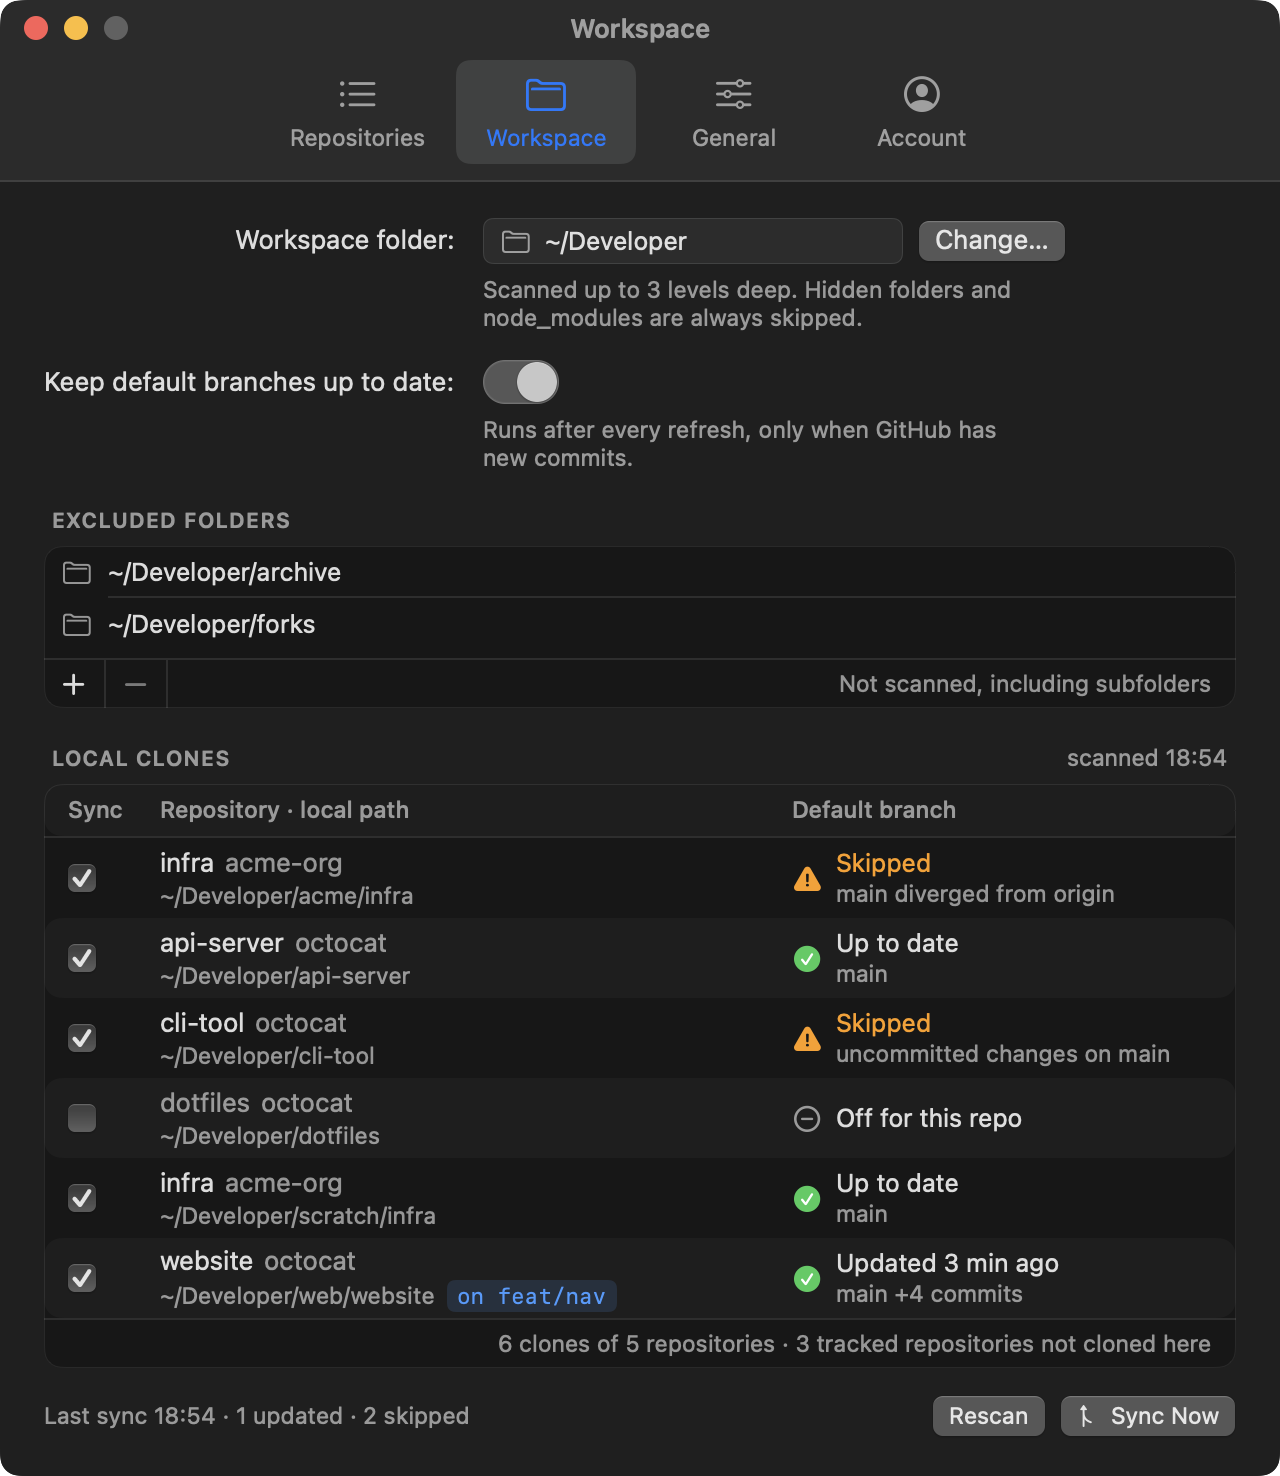
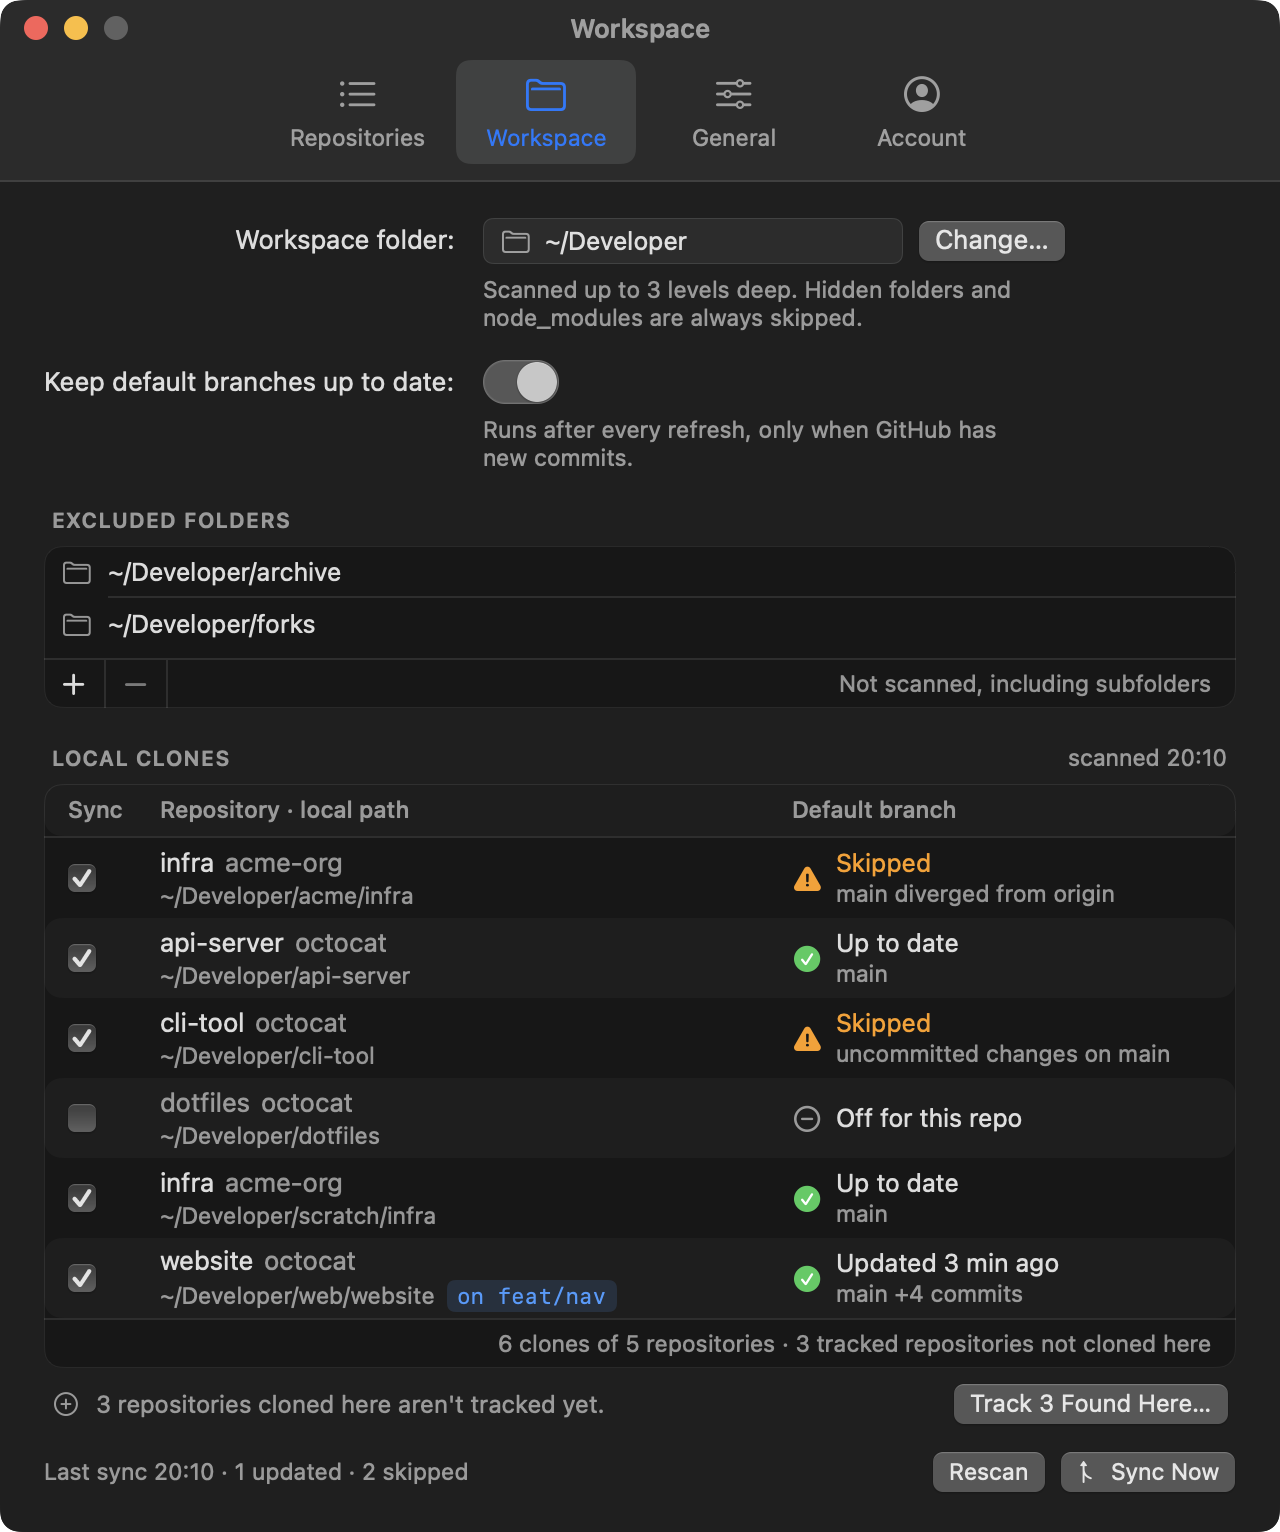
Offer to track repositories cloned in the workspace
The scan only listed clones of tracked repositories, so a workspace full of
clones showed 'No clones found'. The scanner now also returns untracked
github.com clones and Settings > Workspace offers to track them.

diff --git a/Sources/ShipwatchUI/WorkspaceSettingsView.swift b/Sources/ShipwatchUI/WorkspaceSettingsView.swift
@@ -5,6 +5,7 @@ import SwiftUI
 struct WorkspaceSettingsView: View {
     let model: AppModel
     @State private var excludedSelection = Set<String>()
+    @State private var isTrackingFound = false
 
     private var workspace: WorkspaceModel { model.workspace }
     private var prefs: Preferences { model.prefs }
@@ -37,8 +38,14 @@ struct WorkspaceSettingsView: View {
                 .padding(.top, 18)
                 .padding(.bottom, 6)
                 clonesTable
+                if !workspace.untracked.isEmpty {
+                    untrackedRow.padding(.top, 8)
+                }
                 actions.padding(.top, 14)
             }
+        }
+        .sheet(isPresented: $isTrackingFound) {
+            TrackFoundRepositoriesSheet(model: model, clones: workspace.untracked) { isTrackingFound = false }
         }
     }
 
@@ -209,9 +216,13 @@ struct WorkspaceSettingsView: View {
                 VStack(spacing: 4) {
                     Text("No clones found")
                         .font(.system(size: 13, weight: .medium))
-                    Text("No folder here has a git remote pointing at a repository you track.")
-                        .font(.system(size: 12))
-                        .foregroundStyle(.secondary)
+                    Text(
+                        workspace.untracked.isEmpty
+                            ? "No folder here has a git remote pointing at a repository you track."
+                            : "None of the GitHub clones here belong to a repository you track yet."
+                    )
+                    .font(.system(size: 12))
+                    .foregroundStyle(.secondary)
                 }
                 .frame(maxWidth: .infinity, minHeight: 80)
             } else {
@@ -246,6 +257,22 @@ struct WorkspaceSettingsView: View {
             parts.append("\(uncloned.counted("tracked repository", "tracked repositories")) not cloned here")
         }
         return parts.joined(separator: " · ")
+    }
+
+    private var untrackedRow: some View {
+        let count = workspace.untracked.count
+        return HStack(spacing: 8) {
+            Image(systemName: "plus.circle")
+                .foregroundStyle(.secondary)
+                .accessibilityHidden(true)
+            Text("\(count.counted("repository", "repositories")) cloned here \(count == 1 ? "isn't" : "aren't") tracked yet.")
+                .foregroundStyle(.secondary)
+            Spacer()
+            Button("Track \(count) Found Here…") { isTrackingFound = true }
+                .help("Choose which of these repositories Shipwatch shows and keeps up to date")
+        }
+        .font(.system(size: 12))
+        .padding(.horizontal, 4)
     }
 
     private var actions: some View {
@@ -314,6 +341,85 @@ struct WorkspaceSettingsView: View {
         panel.message = message
         panel.prompt = prompt
         return panel.runModal() == .OK ? panel.urls : []
+    }
+}
+
+/// Picks which untracked github.com repositories found in the workspace to track. All are selected at first.
+package struct TrackFoundRepositoriesSheet: View {
+    let model: AppModel
+    let clones: [LocalClone]
+    let dismiss: () -> Void
+    @State private var selected: Set<String>
+
+    package init(model: AppModel, clones: [LocalClone], dismiss: @escaping () -> Void) {
+        self.model = model
+        self.clones = clones
+        self.dismiss = dismiss
+        _selected = State(initialValue: Set(clones.map(\.ref.key)))
+    }
+
+    private var selectedRefs: [RepoRef] {
+        clones.map(\.ref).filter { selected.contains($0.key) }
+    }
+
+    package var body: some View {
+        let count = selectedRefs.count
+        VStack(alignment: .leading, spacing: 12) {
+            VStack(alignment: .leading, spacing: 4) {
+                Text("Track Repositories Found Here")
+                    .font(.system(size: 15, weight: .semibold))
+                Text("GitHub repositories cloned in your workspace that Shipwatch doesn't track yet.")
+                    .font(.system(size: 12.5))
+                    .foregroundStyle(.secondary)
+            }
+
+            ScrollView {
+                LazyVStack(alignment: .leading, spacing: 0) {
+                    ForEach(clones) { clone in
+                        let key = clone.ref.key
+                        PickerRow(
+                            name: AttributedString(clone.ref.fullName),
+                            detail: Text(WorkspaceSettingsView.abbreviated(clone.path.path)),
+                            isAdded: false,
+                            isSelected: selected.contains(key)
+                        ) { toggle(key) }
+                    }
+                }
+            }
+            .frame(height: 290)
+            .settingsTable()
+
+            HStack {
+                Button(count == clones.count ? "Select None" : "Select All") {
+                    selected = count == clones.count ? [] : Set(clones.map(\.ref.key))
+                }
+                Spacer()
+                Button("Cancel", action: dismiss)
+                    .keyboardShortcut(.cancelAction)
+                Button(count == 0 ? "Track Repositories" : "Track \(count.counted("Repository", "Repositories"))") {
+                    model.addRepositories(selectedRefs)
+                    dismiss()
+                }
+                .keyboardShortcut(.defaultAction)
+                .buttonStyle(.borderedProminent)
+                .disabled(count == 0)
+            }
+            .controlSize(.large)
+            .font(.system(size: 13))
+        }
+        .padding(20)
+        .frame(width: 520)
+        .background(Theme.settingsContent)
+        .environment(\.colorScheme, .dark)
+        .preferredColorScheme(.dark)
+    }
+
+    private func toggle(_ key: String) {
+        if selected.contains(key) {
+            selected.remove(key)
+        } else {
+            selected.insert(key)
+        }
     }
 }
 

diff --git a/Sources/ShipwatchCore/Workspace.swift b/Sources/ShipwatchCore/Workspace.swift
@@ -21,16 +21,19 @@ public struct LocalClone: Hashable, Sendable, Identifiable {
 
 public struct WorkspaceScan: Equatable, Sendable {
     public var clones: [LocalClone]
+    /// Clones of github.com repositories that aren't tracked, so they can be offered for tracking.
+    public var untracked: [LocalClone]
     /// Folders that could not be listed, usually because macOS privacy settings block them.
     public var unreadable: [URL]
 
-    public init(clones: [LocalClone] = [], unreadable: [URL] = []) {
+    public init(clones: [LocalClone] = [], untracked: [LocalClone] = [], unreadable: [URL] = []) {
         self.clones = clones
+        self.untracked = untracked
         self.unreadable = unreadable
     }
 }
 
-/// Finds clones of tracked repositories inside the workspace folder. Reads files only; never runs git.
+/// Finds github.com clones inside the workspace folder, split into tracked and untracked. Reads files only; never runs git.
 public struct WorkspaceScanner: Sendable {
     public static let maxDepth = 3
     public static let skippedFolderNames: Set<String> = ["node_modules"]
@@ -43,12 +46,15 @@ public struct WorkspaceScanner: Sendable {
         self.excluded = excluded
     }
 
-    /// `tracked` holds `RepoRef.key` values. Every clone of a tracked repository is returned, sorted by path.
+    /// `tracked` holds `RepoRef.key` values. Every clone of a tracked repository is returned in `clones`, every
+    /// other github.com clone in `untracked`, both sorted by path.
     public func scan(tracked: Set<String>) -> WorkspaceScan {
         let excludedPaths = excluded.map { Self.canonical($0).path }
         var result = WorkspaceScan()
         visit(Self.canonical(root), depth: 0, tracked: tracked, excluded: excludedPaths, into: &result)
-        result.clones.sort { $0.path.path.localizedStandardCompare($1.path.path) == .orderedAscending }
+        let byPath: (LocalClone, LocalClone) -> Bool = { $0.path.path.localizedStandardCompare($1.path.path) == .orderedAscending }
+        result.clones.sort(by: byPath)
+        result.untracked.sort(by: byPath)
         return result
     }
 
@@ -72,7 +78,11 @@ public struct WorkspaceScanner: Sendable {
         if fileManager.fileExists(atPath: directory.appendingPathComponent(".git").path, isDirectory: &isDirectory) {
             // A `.git` file means a linked worktree or a submodule; their main repository is handled on its own.
             if isDirectory.boolValue, let clone = Self.clone(at: directory, tracked: tracked) {
-                result.clones.append(clone)
+                if tracked.contains(clone.ref.key) {
+                    result.clones.append(clone)
+                } else {
+                    result.untracked.append(clone)
+                }
             }
             return
         }
@@ -94,14 +104,16 @@ public struct WorkspaceScanner: Sendable {
         }
     }
 
+    /// The clone's github.com remote: a tracked one when there is one, `origin` among several. `nil` without any.
     static func clone(at directory: URL, tracked: Set<String>) -> LocalClone? {
         let gitDirectory = directory.appendingPathComponent(".git")
         guard let config = try? String(contentsOf: gitDirectory.appendingPathComponent("config"), encoding: .utf8) else { return nil }
-        let matches = GitConfig.remotes(in: config).compactMap { remote -> (name: String, ref: RepoRef)? in
-            guard let ref = RepoRef(gitRemote: remote.url), tracked.contains(ref.key) else { return nil }
-            return (remote.name, ref)
+        let remotes = GitConfig.remotes(in: config).compactMap { remote -> (name: String, ref: RepoRef)? in
+            RepoRef(gitRemote: remote.url).map { (remote.name, $0) }
         }
-        guard let match = matches.first(where: { $0.name == "origin" }) ?? matches.first else { return nil }
+        let trackedRemotes = remotes.filter { tracked.contains($0.ref.key) }
+        let candidates = trackedRemotes.isEmpty ? remotes : trackedRemotes
+        guard let match = candidates.first(where: { $0.name == "origin" }) ?? candidates.first else { return nil }
         let head = try? String(contentsOf: gitDirectory.appendingPathComponent("HEAD"), encoding: .utf8)
         return LocalClone(path: directory, ref: match.ref, remote: match.name, headBranch: head.flatMap(GitConfig.branch(fromHead:)))
     }

diff --git a/Sources/ShipwatchSnapshots/main.swift b/Sources/ShipwatchSnapshots/main.swift
@@ -161,7 +161,11 @@ func configureWorkspace(_ model: AppModel) {
         clone("web/website", "octocat/website", on: "feat/nav"),
     ]
     let workspace = model.workspace
-    workspace.scan = WorkspaceScan(clones: clones)
+    workspace.scan = WorkspaceScan(clones: clones, untracked: [
+        clone("acme/handbook", "acme-org/handbook"),
+        clone("playground", "octocat/playground"),
+        clone("Spoon-Knife", "octocat/Spoon-Knife"),
+    ])
     workspace.scannedAt = ago(40)
     let head = String(repeating: "a", count: 40)
     func result(_ outcome: CloneSyncOutcome, fastForward: FastForward? = nil) -> CloneSyncResult {
@@ -270,12 +274,18 @@ func addSheet(_ model: AppModel) -> some View {
     ]
     picker.query = "pay"
     picker.selected = ["octocat/payments", "acme-org/payroll"]
-    model.settingsTab = .repositories
-    return SettingsWindowFrame(title: SettingsTab.repositories.title) {
+    return sheet(model, over: .repositories, AddRepositoriesSheet(model: model, picker: picker, loadsOnAppear: false))
+}
+
+/// The settings window on `tab`, dimmed, with `content` shown as its sheet.
+@MainActor
+func sheet(_ model: AppModel, over tab: SettingsTab, _ content: some View) -> some View {
+    model.settingsTab = tab
+    return SettingsWindowFrame(title: tab.title) {
         ZStack(alignment: .top) {
             SettingsView(model: model)
             Color.black.opacity(0.3)
-            AddRepositoriesSheet(model: model, picker: picker, loadsOnAppear: false)
+            content
                 .background(Color(white: 0.2))
                 .clipShape(RoundedRectangle(cornerRadius: 10))
                 .overlay(RoundedRectangle(cornerRadius: 10).strokeBorder(.white.opacity(0.12)))
@@ -332,6 +342,8 @@ MainActor.assumeIsolated {
         try render(settings(model, .general), dark: true, name: "settings-general", into: output)
         configureWorkspace(model)
         try render(settings(model, .workspace), dark: true, name: "settings-workspace", into: output)
+        let trackFound = TrackFoundRepositoriesSheet(model: model, clones: model.workspace.untracked) {}
+        try render(sheet(model, over: .workspace, trackFound), dark: true, name: "settings-track-found", into: output)
 
         let signedOut = makeModel(defaults: defaults, signedIn: false)
         try render(popover(signedOut, dark: true), dark: true, name: "onboarding", into: output)

diff --git a/Tests/ShipwatchCoreTests/WorkspaceTests.swift b/Tests/ShipwatchCoreTests/WorkspaceTests.swift
@@ -82,6 +82,7 @@ import Testing
         try root.fakeClone(".hidden/infra", remotes: ["origin": "git@github.com:acme-org/infra.git"])
         try root.fakeClone("node_modules/infra", remotes: ["origin": "git@github.com:acme-org/infra.git"])
         try root.fakeClone("other", remotes: ["origin": "git@github.com:acme-org/untracked.git"])
+        try root.fakeClone("elsewhere", remotes: ["origin": "git@gitlab.example:acme-org/infra.git"])
         try root.write("linked-worktree/.git", "gitdir: /elsewhere/.git/worktrees/x\n")
         try FileManager.default.createSymbolicLink(at: root.url("alias"), withDestinationURL: root.url("api-server"))
 
@@ -93,6 +94,7 @@ import Testing
         #expect(found.map(\.1) == ["acme-org/infra", "mbianchidev/api-server", "mbianchidev/website", "mbianchidev/website"])
         #expect(found.map(\.2) == ["origin", "origin", "upstream", "origin"])
         #expect(scan.clones.first { $0.ref.name == "website" && $0.remote == "origin" }?.headBranch == "feat/nav")
+        #expect(scan.untracked.map(\.ref.key) == ["acme-org/untracked"])
         #expect(scan.unreadable.isEmpty)
     }
 

diff --git a/Sources/ShipwatchUI/WorkspaceModel.swift b/Sources/ShipwatchUI/WorkspaceModel.swift
@@ -124,6 +124,14 @@ public final class WorkspaceModel {
         return prefs.repos.items.filter { !cloned.contains($0.id) }.count
     }
 
+    /// One clone per github.com repository in the workspace that isn't tracked, sorted by repository.
+    public var untracked: [LocalClone] {
+        var seen = Set<String>()
+        return scan.untracked
+            .filter { !prefs.repos.contains($0.ref) && seen.insert($0.ref.key).inserted }
+            .sorted { $0.ref.fullName.localizedStandardCompare($1.ref.fullName) == .orderedAscending }
+    }
+
     // MARK: Settings
 
     public func setWorkspace(_ url: URL?) {

diff --git a/Sources/ShipwatchUI/AppModel.swift b/Sources/ShipwatchUI/AppModel.swift
@@ -517,6 +517,7 @@ public final class AppModel {
     public func addRepositories(_ refs: [RepoRef]) {
         guard prefs.repos.add(refs) > 0 else { return }
         requestRefresh(force: true)
+        Task { await workspace.rescan() }
     }
 
     public func removeRepository(_ id: TrackedRepo.ID) {

diff --git a/Sources/ShipwatchUI/RepositoriesSettingsView.swift b/Sources/ShipwatchUI/RepositoriesSettingsView.swift
@@ -408,7 +408,7 @@ package struct AddRepositoriesSheet: View {
     }
 }
 
-private struct PickerRow: View {
+struct PickerRow: View {
     let name: AttributedString
     let detail: Text
     let isAdded: Bool

diff --git a/docs/troubleshooting.md b/docs/troubleshooting.md
@@ -45,6 +45,16 @@ Shipwatch waits for the rate limit reset and retries on its own. Use
 with a 1 minute interval uses more of the hourly limit; pick a longer interval
 in Settings > General.
 
+## Updates say "GitHub's rate limit for this network is used up"
+
+Update checks don't use your GitHub token, so they share GitHub's limit of 60
+API requests an hour with every other unauthenticated tool on your network.
+When it's used up, Shipwatch reads the latest release from
+`github.com/mbianchidev/shipwatch/releases/latest` instead until the limit
+resets, so checks keep working. The message only appears if that fails too;
+Shipwatch retries on its own, or click **Check Now** later. See
+[Updates](updates.md#what-shipwatch-verifies).
+
 ## An update failed
 
 Shipwatch keeps the installed version when an update can't be verified or
@@ -53,9 +63,13 @@ installed, and shows why in Settings > General. See
 
 ## A local clone isn't listed in Settings > Workspace
 
-- The repository must be tracked in Shipwatch, and the clone must be inside the
-  workspace folder, at most 3 levels deep, and not in an excluded folder.
-  Hidden folders, `node_modules` and symlinked folders are never scanned.
+- The repository must be tracked in Shipwatch. Clones of github.com
+  repositories you don't track are counted under the table instead: click
+  **Track N Found Here…** to add them.
+- The clone must be inside the workspace folder, at most 3 levels deep, and not
+  in an excluded folder. Hidden folders, `node_modules` and symlinked folders
+  are never scanned. Click **Rescan** after cloning; Shipwatch also rescans
+  every 5 minutes.
 - One of its remotes must point at github.com: `git@github.com:owner/name`,
   `https://github.com/owner/name` or `ssh://git@github.com/owner/name`. SSH host
   aliases such as `git@github-work:owner/name` and `url.*.insteadOf` rewrites

diff --git a/docs/usage.md b/docs/usage.md
@@ -77,13 +77,22 @@ stashes, forces, pushes or switches branches.
    `~/Developer`. Shipwatch scans it up to 3 levels deep for folders whose git
    remote points at a repository you track on github.com. Nothing on disk
    changes yet.
-2. Optionally add **Excluded folders** with **+**. Shipwatch doesn't scan them or
+2. When the folder holds clones of github.com repositories you don't track yet,
+   a line under the table says how many. Click **Track N Found Here…**, untick
+   any you don't want (all are ticked at first), and click
+   **Track N Repositories**. They are added to Settings > Repositories like
+   repositories added with **+**.
+3. Optionally add **Excluded folders** with **+**. Shipwatch doesn't scan them or
    anything inside them. Hidden folders, `node_modules`, symlinks and app
    bundles are always skipped.
-3. Turn on **Keep default branches up to date** (default off).
+4. Turn on **Keep default branches up to date** (default off).
 
 <p align="center">
-  <img src="screenshots/settings-workspace.png" alt="Workspace settings with the workspace folder, the sync switch, two excluded folders and a table of local clones showing up to date, updated and skipped statuses" width="560">
+  <img src="screenshots/settings-workspace.png" alt="Workspace settings with the workspace folder, the sync switch, two excluded folders, a table of local clones showing up to date, updated and skipped statuses, and a line saying 3 repositories cloned here aren't tracked yet with a Track 3 Found Here button" width="560">
+</p>
+
+<p align="center">
+  <img src="screenshots/settings-track-found.png" alt="Track Repositories Found Here sheet listing three untracked repositories with their local paths, all ticked, and a Track 3 Repositories button" width="560">
 </p>
 
 After every refresh where GitHub reports a new commit on a default branch,

diff --git a/docs/architecture.md b/docs/architecture.md
@@ -67,9 +67,11 @@ picked a workspace folder and turned the switch on.
 - **`WorkspaceScanner`** walks the workspace up to 3 levels deep, skipping
   excluded folders, hidden folders, `node_modules`, symlinks and packages. A
   folder with a `.git` directory is a clone when one of its remotes in
-  `.git/config` parses (`RepoRef(gitRemote:)`) to a tracked github.com
-  repository; `origin` wins when several do. It reads files only and never runs
-  git, and it does not descend into clones. Folders it can't list (usually
+  `.git/config` parses (`RepoRef(gitRemote:)`) to a github.com repository. A
+  tracked remote wins, then `origin`. Clones of tracked repositories go to
+  `clones`; the rest go to `untracked`, which Settings > Workspace offers to
+  track. It reads files only and never runs git, and it does not descend into
+  clones. Folders it can't list (usually
   macOS privacy prompts that were declined) are reported, not fatal.
 - **`CloneSyncer`** fast-forwards one clone's local default branch to the head
   commit GitHub reported:
@@ -101,7 +103,8 @@ picked a workspace folder and turned the switch on.
 ## Self-update
 
 `Updater` (in `ShipwatchUI`) checks the latest GitHub release of
-`mbianchidev/shipwatch` on a schedule, downloads `Shipwatch.dmg` and its `.sig`
+`mbianchidev/shipwatch` on a schedule (the REST API, or github.com's
+`releases/latest` redirect while the API is rate limited), downloads `Shipwatch.dmg` and its `.sig`
 into a temporary folder, and verifies the signature against the public keys in
 `UpdateTrust` before mounting anything. It then stages the new app next to the
 installed one, checks its bundle and code signature, and starts the helper
